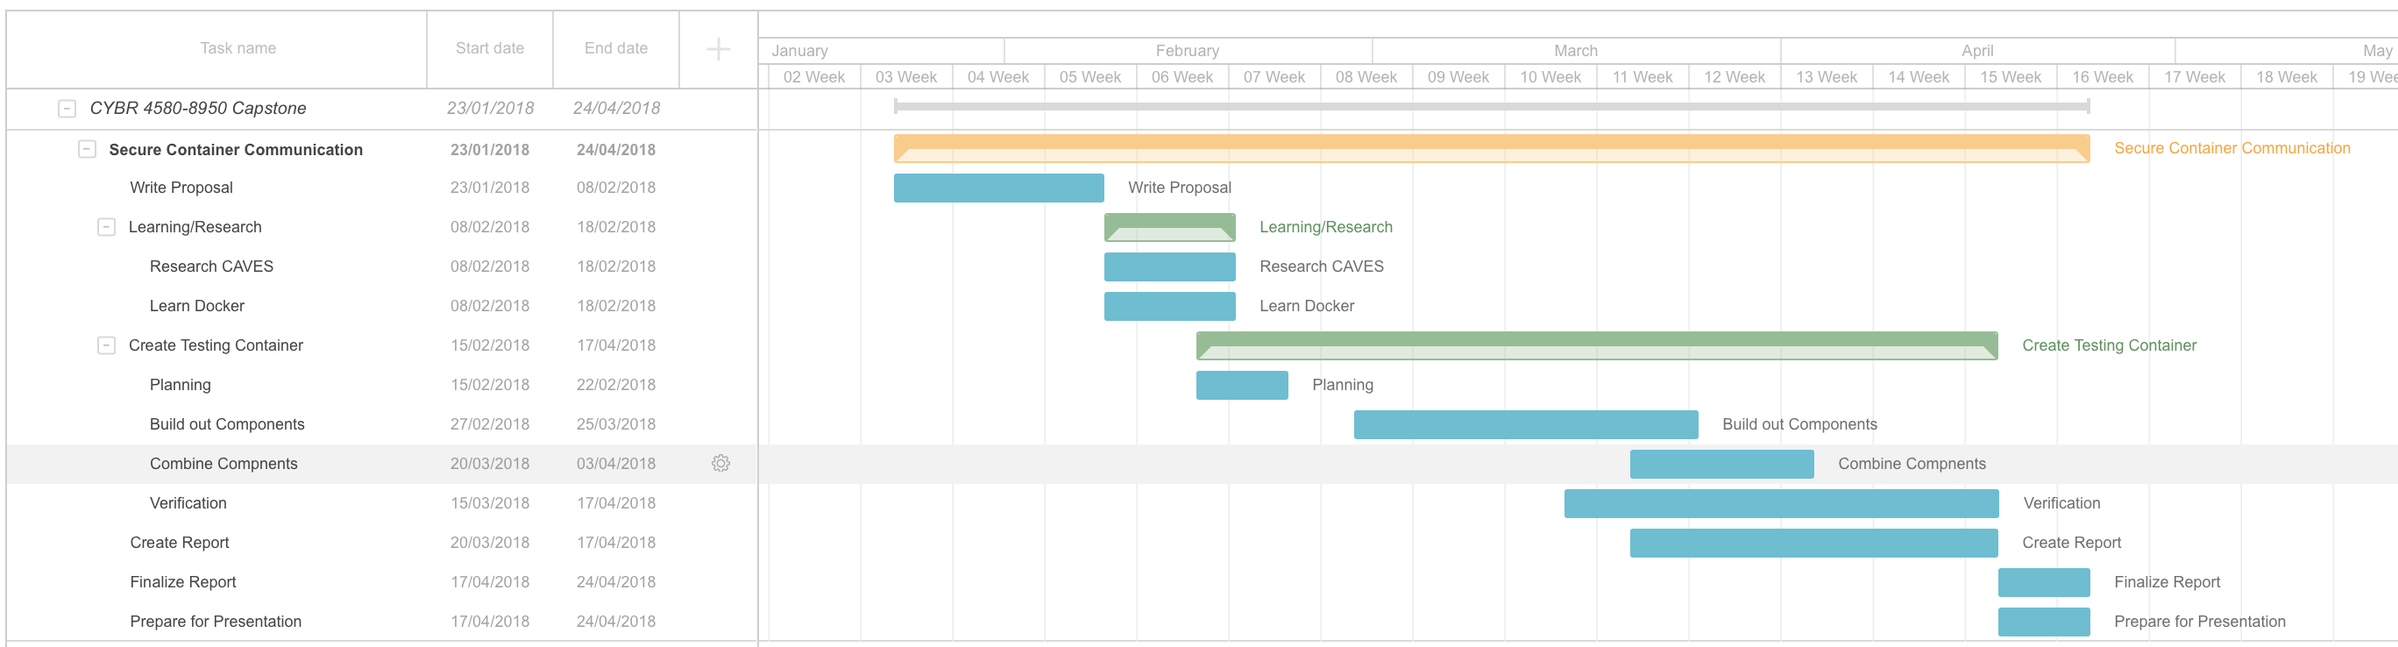
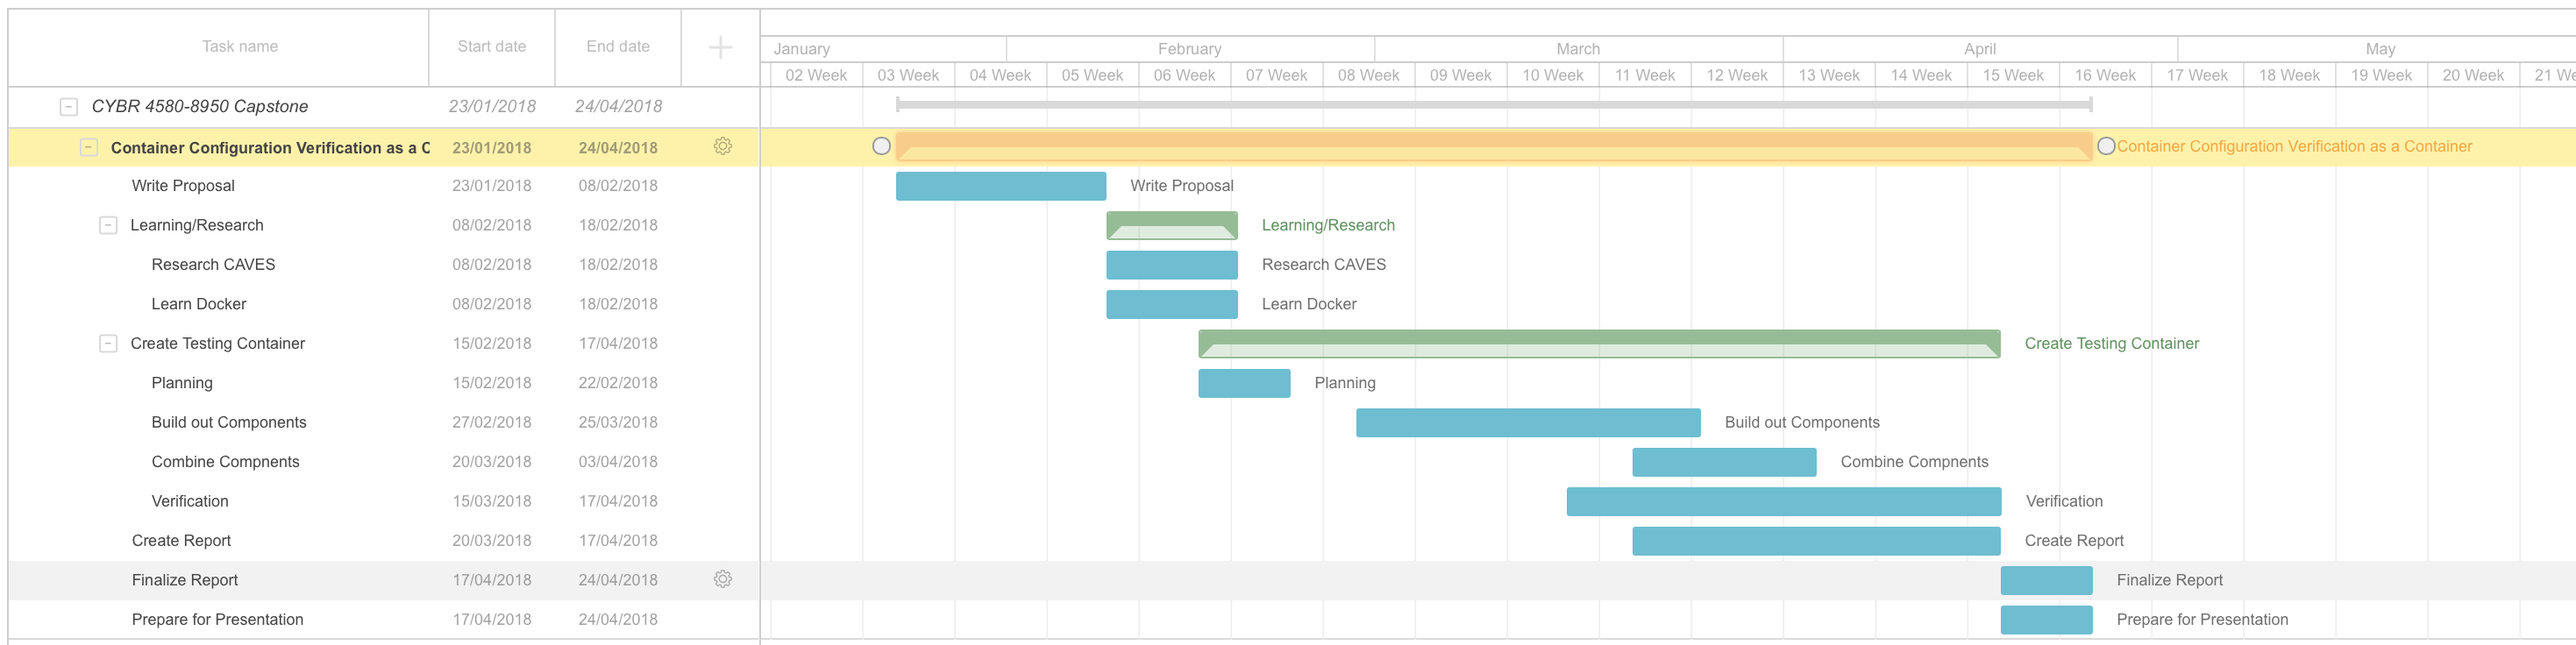
gix gant chart, reword some things

diff --git a/proposal.md b/proposal.md
@@ -1,18 +1,18 @@
 **Introduction**
 
-The completion of “Container Configuration Verification as a Container” (CCVAS) will provide a secure method to configure the requirements for the network bridged files, methods to instantiate containers, and secure communications for applications when working in a virtual environment.  CCVAS will utilize Docker containers to solve the current security problem faced when establishing and utilizing virtualization software.  The end project will provide both a simplified solution and reduce companies’ risk when operating in a virtual environment.
+The completion of “Container Configuration Verification as a Container” (CCVAS) will provide a secure method to configure the requirements for the network bridged files, methods to instantiate containers, and secure communications for applications when working in a virtual environment.  CCVAS will utilize Docker containers to solve the current security problem faced when establishing and utilizing virtualization software.  The end project will provide both a simplified solution and reduce organizations’ risk when operating in a virtual environment.
 
 **Problem Statement**
 
-In today’s world, the use of virtual machines in daily business operation has become prolific.  Virtual machines can greatly enhance the efficiency of a business and drastically reduce costs by removing the necessity to purchase physical machines, cutting energy and cooling consumption, and improving recovery operations.  Consequently, as the adoption of virtual environments continues to grow, so does the concern of their security.  The more companies come to rely on virtual systems, the more these systems will become targets of security attacks.  While using virtual systems can save a large amount of money, a hack due to poor configurations can end up costing companies much more than they saved.  Therefore, as companies look to take business to a virtual environment, they need to be sure that they are properly utilizing the virtual environment.  Thus, CCVAS will look to bridge the gap between security and virtualization.
+In today’s world, the use of virtual machines in daily business operations has become prolific.  Virtual machines can greatly enhance the efficiency of a business and drastically reduce costs by removing the necessity to purchase physical machines, cutting energy and cooling consumption, and improving recovery operations.  Consequently, as the adoption of virtual environments continues to grow, so does the concern of their security.  The more companies come to rely on virtual systems, the more these systems will become targets of security attacks.  While using virtual systems can save a large amount of money, a security breach due to poor configurations can end up costing organizations much more than they saved.  Therefore, as organizations move operations to virtual environments, they need tools to ensure that they are being properly utilized. Thus, CCVAS will look to bridge the gap between security and virtualization.
 
 **Project Goals**
 
 The completion of CCVAS will look to achieve the following list of goals.  Each of these goals will work towards better security for a virtual environment.
 * Determine a list of common Docker configurations that leave virtual environments vulnerable to attack.
-* Develop a set of scripts and commands that will test for each vulnerability.
-* Test created scripts and selected commands against a CAVES container.
-* Generate a PDF report documenting test findings.
+* Develop a set of scripts and commands that will test for vulnerabilities.
+* Test created scripts and selected commands against a container that implements CAVES.
+* Generate a PDF report documenting findings of tested containers.
 
 **Project Merit**
 
@@ -70,7 +70,7 @@ Throughout the course of the project, the team will likely experience a variety 
 In order to complete the CCVAC project, the team will need the following materials -
 
 * A central VM (hosted at UNO), to run Docker.  The team will SSH into this machine.
-* A CAVES modelled virtual machine to test our container solutions on.
+* A CAVES modeled virtual machine to test our container solutions on.
 
 **Qualifications**
 
